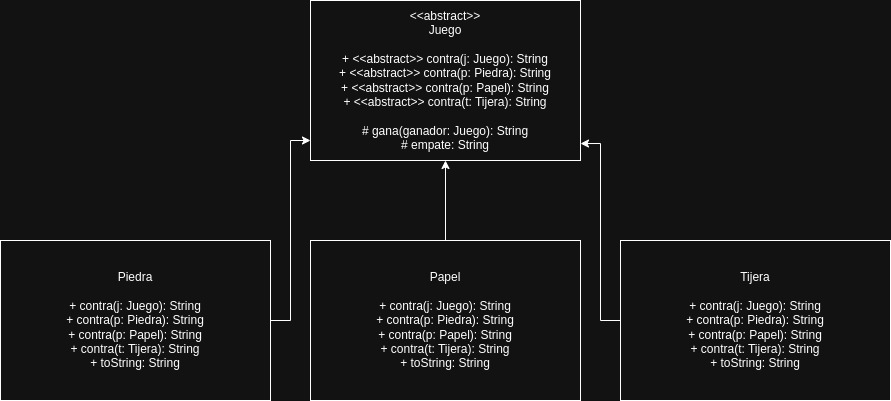
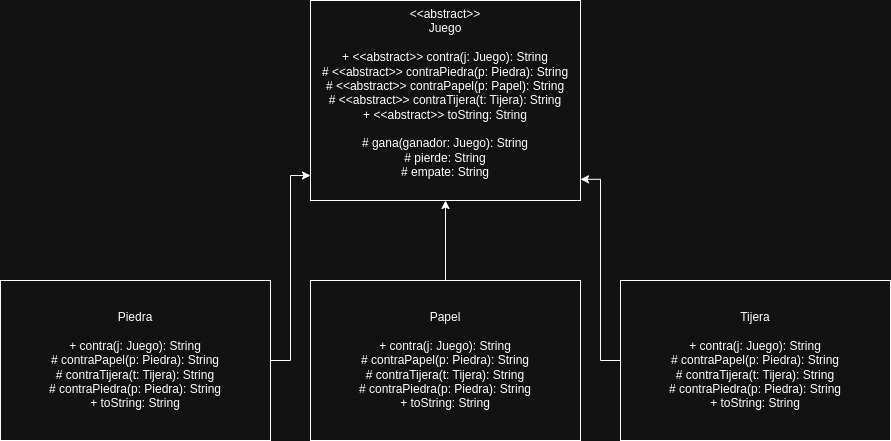
Fix OO2 Ejercicio 2

diff --git a/Tercero/Primer Semestre/Orientación a Objetos 2/Prácticas/Ejercicios resueltos/Repaso/Ejercicio 2 - Piedra, Papel o Tijera/ejercicio2/src/test/java/ar/edu/objetos/uno/ejercicio2/PapelTest.java b/Tercero/Primer Semestre/Orientación a Objetos 2/Prácticas/Ejercicios resueltos/Repaso/Ejercicio 2 - Piedra, Papel o Tijera/ejercicio2/src/test/java/ar/edu/objetos/uno/ejercicio2/PapelTest.java
@@ -9,7 +9,6 @@ public class PapelTest {
 	private Piedra piedra;
 	private Papel papel;
 	private Tijera tijera;
-	private Juego generico;
 	
 	@BeforeEach
 	public void setUp() throws Exception {
@@ -17,7 +16,6 @@ public class PapelTest {
 		this.piedra = new Piedra();
 		this.papel = new Papel();
 		this.tijera = new Tijera();
-		this.generico = new Piedra();
 		
 	}
 	
@@ -25,9 +23,8 @@ public class PapelTest {
 	public void testContra() {
 		
 		assertEquals("Ganador: Tijera", this.papel.contra(this.tijera));
-		assertEquals("Ganador: Papel", this.papel.contra(this.piedra));
+		assertEquals("Perdedor", this.papel.contra(this.piedra));
 		assertEquals("Empate", this.papel.contra(this.papel));
-		assertEquals("Ganador: Papel", this.papel.contra(this.generico));
 		
 	}
 

diff --git a/Tercero/Primer Semestre/Orientación a Objetos 2/Prácticas/Ejercicios resueltos/Repaso/Ejercicio 2 - Piedra, Papel o Tijera/ejercicio2/src/main/java/ar/edu/objetos/uno/ejercicio2/Juego.java b/Tercero/Primer Semestre/Orientación a Objetos 2/Prácticas/Ejercicios resueltos/Repaso/Ejercicio 2 - Piedra, Papel o Tijera/ejercicio2/src/main/java/ar/edu/objetos/uno/ejercicio2/Juego.java
@@ -3,13 +3,17 @@ package ar.edu.objetos.uno.ejercicio2;
 abstract class Juego {
 
 	public abstract String contra(Juego j);
-	public abstract String contra(Piedra p);
-	public abstract String contra(Papel p);
-	public abstract String contra(Tijera t);
+	protected abstract String contraPiedra(Piedra p);
+	protected abstract String contraPapel(Papel p);
+	protected abstract String contraTijera(Tijera t);
 	public abstract String toString();
 	
 	protected String gana(Juego ganador) {
 		return "Ganador: " + ganador.toString();
+	}
+	
+	protected String pierde() {
+		return "Perdedor";
 	}
 	
 	protected String empate() {

diff --git a/Tercero/Primer Semestre/Orientación a Objetos 2/Prácticas/Ejercicios resueltos/Repaso/Ejercicio 2 - Piedra, Papel o Tijera/ejercicio2/src/main/java/ar/edu/objetos/uno/ejercicio2/Tijera.java b/Tercero/Primer Semestre/Orientación a Objetos 2/Prácticas/Ejercicios resueltos/Repaso/Ejercicio 2 - Piedra, Papel o Tijera/ejercicio2/src/main/java/ar/edu/objetos/uno/ejercicio2/Tijera.java
@@ -3,19 +3,19 @@ package ar.edu.objetos.uno.ejercicio2;
 public class Tijera extends Juego {
 	
 	public String contra(Juego j) {
-		return j.contra(this);
+		return j.contraTijera(this);
 	}
 	
-	public String contra(Tijera t) {
+	protected String contraTijera(Tijera t) {
 		return this.empate();
 	}
 	
-	public String contra(Papel p) {
+	protected String contraPapel(Papel p) {
 		return this.gana(this);
 	}
 	
-	public String contra(Piedra p) {
-		return this.gana(p);
+	protected String contraPiedra(Piedra p) {
+		return this.pierde();
 	}
 	
 	public String toString() {

diff --git a/Tercero/Primer Semestre/Orientación a Objetos 2/Prácticas/Ejercicios resueltos/Repaso/Ejercicio 2 - Piedra, Papel o Tijera/ejercicio2/src/main/java/ar/edu/objetos/uno/ejercicio2/Piedra.java b/Tercero/Primer Semestre/Orientación a Objetos 2/Prácticas/Ejercicios resueltos/Repaso/Ejercicio 2 - Piedra, Papel o Tijera/ejercicio2/src/main/java/ar/edu/objetos/uno/ejercicio2/Piedra.java
@@ -3,18 +3,18 @@ package ar.edu.objetos.uno.ejercicio2;
 public class Piedra extends Juego {
 	
 	public String contra(Juego j) {
-		return j.contra(this);
+		return j.contraPiedra(this);
 	}
 	
-	public String contra(Piedra p) {
+	protected String contraPiedra(Piedra p) {
 		return this.empate();
 	}
 	
-	public String contra(Papel p) {
-		return this.gana(p);
+	protected String contraPapel(Papel p) {
+		return this.pierde();
 	}
 	
-	public String contra(Tijera t) {
+	protected String contraTijera(Tijera t) {
 		return this.gana(this);
 	}
 	

diff --git a/Tercero/Primer Semestre/Orientación a Objetos 2/Prácticas/Ejercicios resueltos/Repaso/Ejercicio 2 - Piedra, Papel o Tijera/ejercicio2/src/main/java/ar/edu/objetos/uno/ejercicio2/Papel.java b/Tercero/Primer Semestre/Orientación a Objetos 2/Prácticas/Ejercicios resueltos/Repaso/Ejercicio 2 - Piedra, Papel o Tijera/ejercicio2/src/main/java/ar/edu/objetos/uno/ejercicio2/Papel.java
@@ -3,18 +3,18 @@ package ar.edu.objetos.uno.ejercicio2;
 public class Papel extends Juego {
 	
 	public String contra(Juego j) {
-		return j.contra(this);
+		return j.contraPapel(this);
 	}
 	
-	public String contra(Papel p) {
+	protected String contraPapel(Papel p) {
 		return this.empate();
 	}
 	
-	public String contra(Tijera t) {
-		return this.gana(t);
+	protected String contraTijera(Tijera t) {
+		return this.pierde();
 	}
 	
-	public String contra(Piedra p) {
+	protected String contraPiedra(Piedra p) {
 		return this.gana(this);
 	}
 	

diff --git a/Tercero/Primer Semestre/Orientación a Objetos 2/Prácticas/Ejercicios resueltos/Repaso/Ejercicio 2 - Piedra, Papel o Tijera/ejercicio2/src/test/java/ar/edu/objetos/uno/ejercicio2/TijeraTest.java b/Tercero/Primer Semestre/Orientación a Objetos 2/Prácticas/Ejercicios resueltos/Repaso/Ejercicio 2 - Piedra, Papel o Tijera/ejercicio2/src/test/java/ar/edu/objetos/uno/ejercicio2/TijeraTest.java
@@ -22,7 +22,7 @@ public class TijeraTest {
 	@Test
 	public void testContra() {
 		
-		assertEquals("Ganador: Tijera", this.tijera.contra(this.papel));
+		assertEquals("Perdedor", this.tijera.contra(this.papel));
 		assertEquals("Ganador: Piedra", this.tijera.contra(this.piedra));
 		assertEquals("Empate", this.tijera.contra(this.tijera));
 		

diff --git a/Tercero/Primer Semestre/Orientación a Objetos 2/Prácticas/Ejercicios resueltos/Repaso/Ejercicio 2 - Piedra, Papel o Tijera/ejercicio2/src/test/java/ar/edu/objetos/uno/ejercicio2/PiedraTest.java b/Tercero/Primer Semestre/Orientación a Objetos 2/Prácticas/Ejercicios resueltos/Repaso/Ejercicio 2 - Piedra, Papel o Tijera/ejercicio2/src/test/java/ar/edu/objetos/uno/ejercicio2/PiedraTest.java
@@ -23,7 +23,7 @@ public class PiedraTest {
 	public void testContra() {
 		
 		assertEquals("Ganador: Papel", this.piedra.contra(this.papel));
-		assertEquals("Ganador: Piedra", this.piedra.contra(this.tijera));
+		assertEquals("Perdedor", this.piedra.contra(this.tijera));
 		assertEquals("Empate", this.piedra.contra(this.piedra));
 		
 	}
